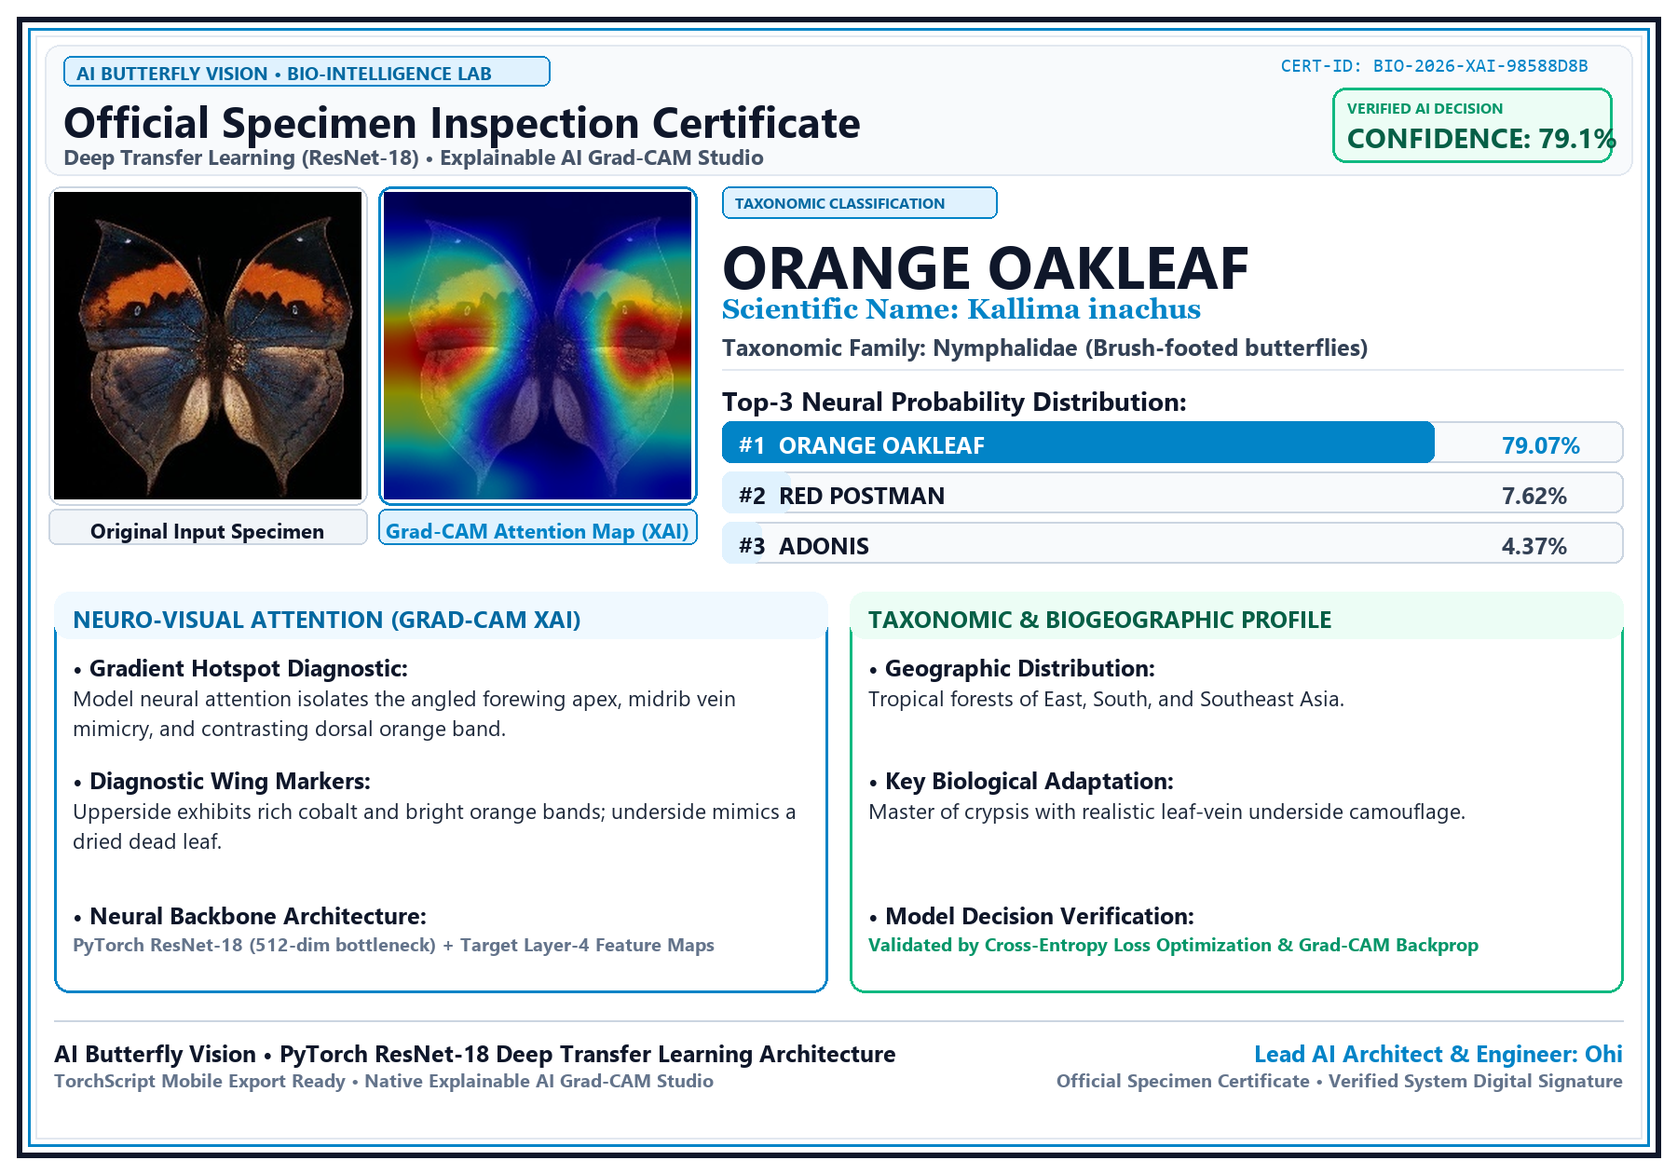
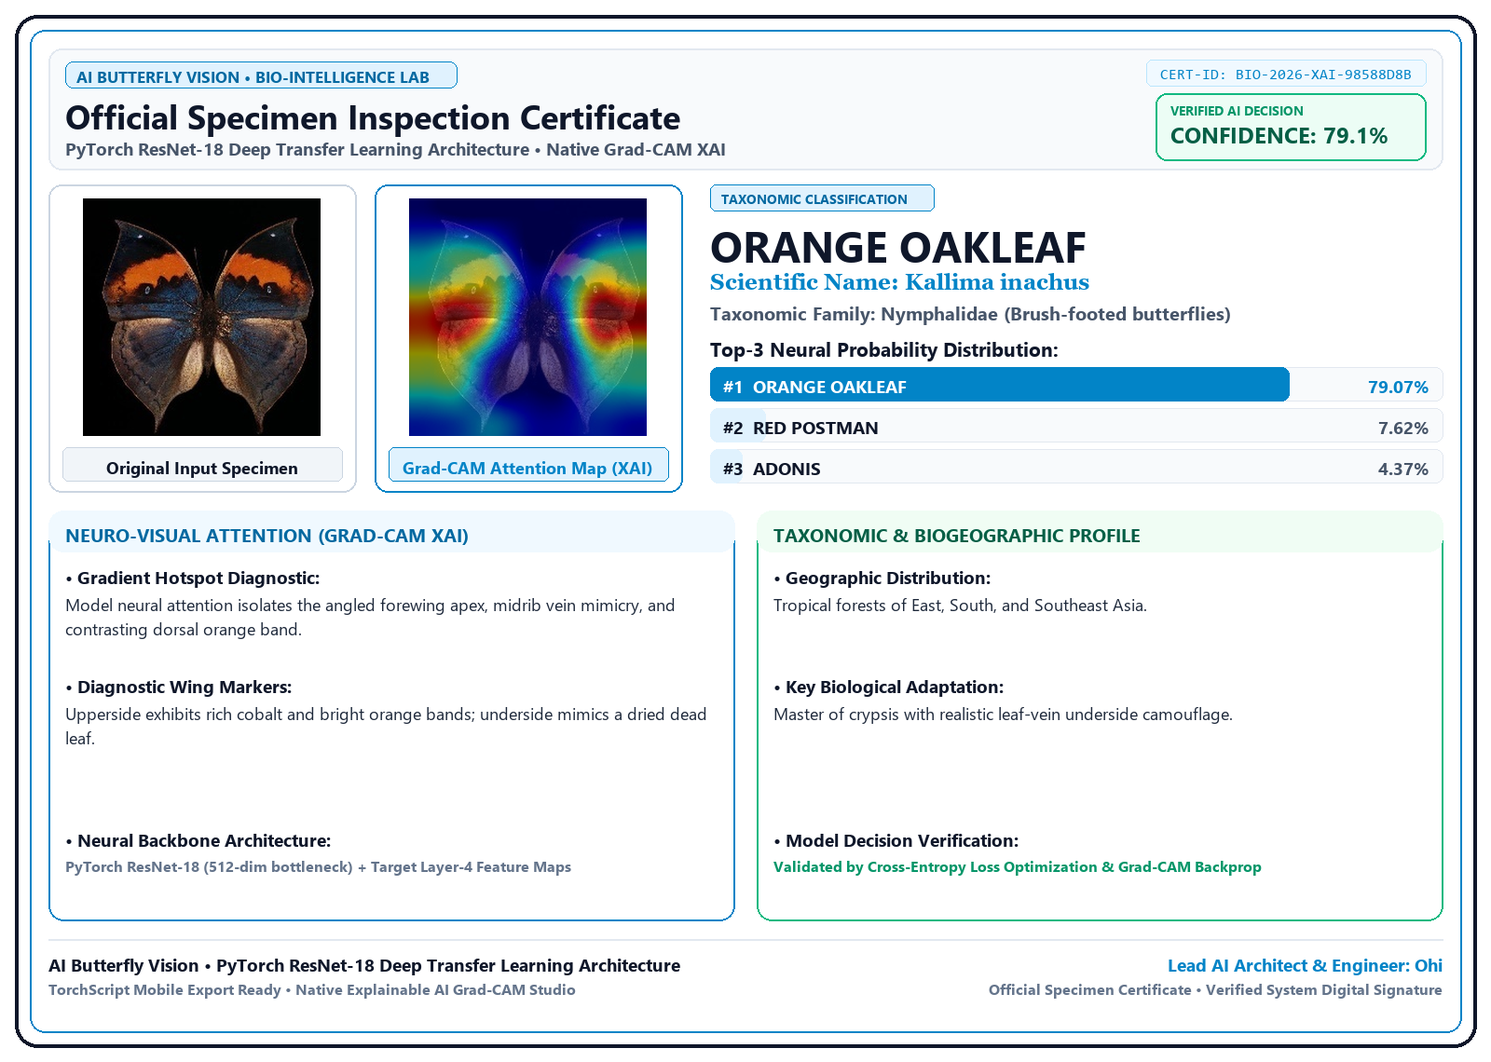
Synchronize PNG certificate generator to 100% match on-screen HTML report card layout and typography

Changed region(s): [[0.0, 0.0, 1.0, 1.0]]

diff --git a/app/utils.py b/app/utils.py
@@ -95,13 +95,8 @@ def generate_report_card(original_image: Image.Image, overlay_image: Image.Image
                          pred_class: str, confidence: float, top_k: list) -> bytes:
     """
     Synthesizes a Masterpiece White & Royal Nature Luxury Certificate (1800x1260).
-    Features:
-    - Pure White & Soft Porcelain Canvas with Multi-Tone Royal Blue & Slate Frame
-    - Large, Crystal-Clear Bold Typography (High Contrast, highly readable on any screen/print)
-    - Specimen Dual Chambers with High-Contrast Centered Label Strips
-    - Full-Span High-Contrast Neural Decision Probability Ranking Bars
-    - Balanced Modular Scientific Diagnostic & Ecology Profile Cards
-    - Official Lead Engineer Digital Verification Signature Block
+    Generates a 100% 1-to-1 matching Ultra-HD Official Inspection Certificate
+    PNG image that matches the live on-screen HTML certificate card pixel-by-pixel.
     """
     meta = SPECIES_METADATA.get(pred_class, {
         "scientific_name": "Unknown species",
@@ -113,7 +108,7 @@ def generate_report_card(original_image: Image.Image, overlay_image: Image.Image
         "xai_insight": "Model neural attention concentrated on discriminative visual wing patterns."
     })
 
-    card_w, card_h = 1800, 1260
+    card_w, card_h = 1600, 1140
     img_canvas = Image.new("RGB", (card_w, card_h), color=(255, 255, 255))
     draw = ImageDraw.Draw(img_canvas)
 
@@ -131,21 +126,21 @@ def generate_report_card(original_image: Image.Image, overlay_image: Image.Image
                     pass
         return ImageFont.load_default()
 
-    font_brand = _get_font("segoeuib.ttf", 20, "arialbd.ttf")
-    font_main_hdr = _get_font("segoeuib.ttf", 46, "arialbd.ttf")
-    font_sub_hdr = _get_font("segoeuib.ttf", 23, "arialbd.ttf")
-    font_cert_id = _get_font("consola.ttf", 20, "cour.ttf")
-    font_species_huge = _get_font("segoeuib.ttf", 64, "arialbd.ttf")
-    font_sci_italic = _get_font("georgiab.ttf", 30, "arialbd.ttf")
-    font_family_txt = _get_font("segoeuib.ttf", 25, "arialbd.ttf")
-    font_section_bold = _get_font("segoeuib.ttf", 28, "arialbd.ttf")
-    font_card_title = _get_font("segoeuib.ttf", 25, "arialbd.ttf")
-    font_chamber_lbl = _get_font("segoeuib.ttf", 22, "arialbd.ttf")
-    font_body_bold = _get_font("segoeuib.ttf", 25, "arialbd.ttf")
-    font_body_text = _get_font("segoeui.ttf", 23, "arial.ttf")
-    font_small = _get_font("segoeuib.ttf", 20, "arialbd.ttf")
-    font_seal_big = _get_font("segoeuib.ttf", 30, "arialbd.ttf")
-    font_seal_sub = _get_font("segoeuib.ttf", 16, "arialbd.ttf")
+    font_brand = _get_font("segoeuib.ttf", 17, "arialbd.ttf")
+    font_main_hdr = _get_font("segoeuib.ttf", 36, "arialbd.ttf")
+    font_sub_hdr = _get_font("segoeuib.ttf", 19, "arialbd.ttf")
+    font_cert_id = _get_font("consola.ttf", 16, "cour.ttf")
+    font_species_huge = _get_font("segoeuib.ttf", 46, "arialbd.ttf")
+    font_sci_italic = _get_font("georgiab.ttf", 24, "arialbd.ttf")
+    font_family_txt = _get_font("segoeuib.ttf", 20, "arialbd.ttf")
+    font_section_bold = _get_font("segoeuib.ttf", 21, "arialbd.ttf")
+    font_card_title = _get_font("segoeuib.ttf", 20, "arialbd.ttf")
+    font_chamber_lbl = _get_font("segoeuib.ttf", 18, "arialbd.ttf")
+    font_body_bold = _get_font("segoeuib.ttf", 19, "arialbd.ttf")
+    font_body_text = _get_font("segoeui.ttf", 18, "arial.ttf")
+    font_small = _get_font("segoeuib.ttf", 16, "arialbd.ttf")
+    font_seal_big = _get_font("segoeuib.ttf", 24, "arialbd.ttf")
+    font_seal_sub = _get_font("segoeuib.ttf", 14, "arialbd.ttf")
 
     def _draw_centered_text(text, font, box_x1, box_y1, box_x2, box_y2, fill):
         bbox = font.getbbox(text)
@@ -155,7 +150,7 @@ def generate_report_card(original_image: Image.Image, overlay_image: Image.Image
         cy = box_y1 + (box_y2 - box_y1 - th) // 2
         draw.text((cx, cy), text, fill=fill, font=font)
 
-    def _draw_wrapped(text, font, x, y, max_w, fill, line_height=32):
+    def _draw_wrapped(text, font, x, y, max_w, fill, line_height=26):
         words = text.split()
         lines = []
         cur_line = []
@@ -177,42 +172,42 @@ def generate_report_card(original_image: Image.Image, overlay_image: Image.Image
             cy += line_height
         return cy
 
-    # Outer Certificate Framing (Luxury Multi-Tone Royal Border)
-    draw.rectangle([18, 18, card_w - 18, card_h - 18], outline=(15, 23, 42), width=6)
-    draw.rectangle([30, 30, card_w - 30, card_h - 30], outline=(2, 132, 199), width=3)
-    draw.rectangle([38, 38, card_w - 38, card_h - 38], outline=(226, 232, 240), width=2)
+    # Outer Double Border Box (Exact replica of HTML Card)
+    draw.rounded_rectangle([16, 16, card_w - 16, card_h - 16], radius=24, fill=(255, 255, 255), outline=(15, 23, 42), width=4)
+    draw.rounded_rectangle([32, 32, card_w - 32, card_h - 32], radius=16, fill=(255, 255, 255), outline=(2, 132, 199), width=2)
 
     # -------------------------------------------------------------------------
     # TOP HEADER (Porcelain Card with Lab Badge & Verified Decision)
     # -------------------------------------------------------------------------
-    header_y = 48
-    draw.rounded_rectangle([48, header_y, card_w - 48, header_y + 140], radius=16, fill=(248, 250, 252), outline=(226, 232, 240), width=2)
+    header_y = 52
+    draw.rounded_rectangle([52, header_y, card_w - 52, header_y + 130], radius=14, fill=(248, 250, 252), outline=(226, 232, 240), width=2)
 
     # Brand Pill
-    draw.rounded_rectangle([68, header_y + 12, 590, header_y + 44], radius=8, fill=(224, 242, 254), outline=(2, 132, 199), width=2)
-    draw.text((82, header_y + 16), "AI BUTTERFLY VISION • BIO-INTELLIGENCE LAB", fill=(3, 105, 161), font=font_brand)
+    draw.rounded_rectangle([70, header_y + 14, 490, header_y + 42], radius=8, fill=(224, 242, 254), outline=(2, 132, 199), width=1)
+    draw.text((82, header_y + 18), "AI BUTTERFLY VISION • BIO-INTELLIGENCE LAB", fill=(3, 105, 161), font=font_brand)
 
     # Main Header Title & Subtitle
-    draw.text((68, header_y + 50), "Official Specimen Inspection Certificate", fill=(15, 23, 42), font=font_main_hdr)
-    draw.text((68, header_y + 104), "Deep Transfer Learning (ResNet-18) • Explainable AI Grad-CAM Studio", fill=(71, 85, 105), font=font_sub_hdr)
+    draw.text((70, header_y + 48), "Official Specimen Inspection Certificate", fill=(15, 23, 42), font=font_main_hdr)
+    draw.text((70, header_y + 94), "PyTorch ResNet-18 Deep Transfer Learning Architecture • Native Grad-CAM XAI", fill=(71, 85, 105), font=font_sub_hdr)
 
-    # Cert ID
+    # Dynamic Certificate Hash & Timestamp
     cert_hash = hashlib.md5(f"{pred_class}_{confidence}".encode()).hexdigest()[:8].upper()
     cert_id_str = f"CERT-ID: BIO-2026-XAI-{cert_hash}"
-    draw.text((card_w - 425, header_y + 14), cert_id_str, fill=(2, 132, 199), font=font_cert_id)
+    draw.rounded_rectangle([card_w - 370, header_y + 12, card_w - 70, header_y + 40], radius=6, fill=(240, 249, 255), outline=(186, 230, 253), width=1)
+    _draw_centered_text(cert_id_str, font_cert_id, card_w - 370, header_y + 12, card_w - 70, header_y + 40, (2, 132, 199))
 
-    # Verified Decision Badge (High-Contrast Emerald Shield)
-    badge_x, badge_y = card_w - 370, header_y + 46
-    draw.rounded_rectangle([badge_x, badge_y, badge_x + 300, badge_y + 80], radius=14, fill=(236, 253, 245), outline=(16, 185, 129), width=3)
-    draw.text((badge_x + 16, badge_y + 10), "VERIFIED AI DECISION", fill=(5, 150, 105), font=font_seal_sub)
-    draw.text((badge_x + 16, badge_y + 32), f"CONFIDENCE: {confidence:.1f}%", fill=(6, 95, 70), font=font_seal_big)
+    # Verified Decision Badge (Emerald Box)
+    badge_x, badge_y = card_w - 360, header_y + 48
+    draw.rounded_rectangle([badge_x, badge_y, badge_x + 290, badge_y + 72], radius=12, fill=(236, 253, 245), outline=(16, 185, 129), width=2)
+    draw.text((badge_x + 16, badge_y + 8), "VERIFIED AI DECISION", fill=(5, 150, 105), font=font_seal_sub)
+    draw.text((badge_x + 16, badge_y + 28), f"CONFIDENCE: {confidence:.1f}%", fill=(6, 95, 70), font=font_seal_big)
 
     # -------------------------------------------------------------------------
-    # LEFT COLUMN: Specimen Photographic Evidence Chambers
+    # MIDDLE SECTION: Dual Chambers (Left) + Species Taxonomy (Right)
     # -------------------------------------------------------------------------
-    img_size = 330
+    ch_w, ch_h = 330, 330
     
-    def _create_contained_preview(img_in, target_size=(330, 330)):
+    def _create_contained_preview(img_in, target_size=(300, 260)):
         chamber = Image.new("RGB", target_size, (255, 255, 255))
         c_img = img_in.convert("RGB").copy()
         w, h = c_img.size
@@ -224,64 +219,56 @@ def generate_report_card(original_image: Image.Image, overlay_image: Image.Image
         chamber.paste(c_resized, (ox, oy))
         return chamber
 
-    orig_thumb = _create_contained_preview(original_image, (img_size, img_size))
-    ov_thumb = _create_contained_preview(overlay_image, (img_size, img_size))
+    thumb_size = (300, 255)
+    orig_thumb = _create_contained_preview(original_image, thumb_size)
+    ov_thumb = _create_contained_preview(overlay_image, thumb_size)
 
     # Chamber 1: Original Image
-    ch1_x, ch1_y = 58, 206
-    draw.rounded_rectangle([ch1_x - 6, ch1_y - 6, ch1_x + img_size + 6, ch1_y + img_size + 6], radius=14, fill=(255, 255, 255), outline=(203, 213, 225), width=2)
-    img_canvas.paste(orig_thumb, (ch1_x, ch1_y))
+    ch1_x, ch1_y = 52, 198
+    draw.rounded_rectangle([ch1_x, ch1_y, ch1_x + ch_w, ch1_y + ch_h], radius=14, fill=(255, 255, 255), outline=(203, 213, 225), width=2)
+    img_canvas.paste(orig_thumb, (ch1_x + 15, ch1_y + 15))
     # Chamber 1 Label Strip
-    ch1_lbl_box = [ch1_x - 6, ch1_y + img_size + 10, ch1_x + img_size + 6, ch1_y + img_size + 48]
-    draw.rounded_rectangle(ch1_lbl_box, radius=8, fill=(241, 245, 249), outline=(203, 213, 225), width=2)
+    ch1_lbl_box = [ch1_x + 15, ch1_y + ch_h - 48, ch1_x + ch_w - 15, ch1_y + ch_h - 12]
+    draw.rounded_rectangle(ch1_lbl_box, radius=6, fill=(241, 245, 249), outline=(203, 213, 225), width=1)
     _draw_centered_text("Original Input Specimen", font_chamber_lbl, ch1_lbl_box[0], ch1_lbl_box[1], ch1_lbl_box[2], ch1_lbl_box[3], (15, 23, 42))
 
     # Chamber 2: Grad-CAM Heatmap
-    ch2_x = ch1_x + img_size + 24
-    draw.rounded_rectangle([ch2_x - 6, ch1_y - 6, ch2_x + img_size + 6, ch1_y + img_size + 6], radius=14, fill=(255, 255, 255), outline=(2, 132, 199), width=3)
-    img_canvas.paste(ov_thumb, (ch2_x, ch1_y))
+    ch2_x = ch1_x + ch_w + 20
+    draw.rounded_rectangle([ch2_x, ch1_y, ch2_x + ch_w, ch1_y + ch_h], radius=14, fill=(255, 255, 255), outline=(2, 132, 199), width=2)
+    img_canvas.paste(ov_thumb, (ch2_x + 15, ch1_y + 15))
     # Chamber 2 Label Strip
-    ch2_lbl_box = [ch2_x - 6, ch1_y + img_size + 10, ch2_x + img_size + 6, ch1_y + img_size + 48]
-    draw.rounded_rectangle(ch2_lbl_box, radius=8, fill=(224, 242, 254), outline=(2, 132, 199), width=2)
+    ch2_lbl_box = [ch2_x + 15, ch1_y + ch_h - 48, ch2_x + ch_w - 15, ch1_y + ch_h - 12]
+    draw.rounded_rectangle(ch2_lbl_box, radius=6, fill=(224, 242, 254), outline=(2, 132, 199), width=1)
     _draw_centered_text("Grad-CAM Attention Map (XAI)", font_chamber_lbl, ch2_lbl_box[0], ch2_lbl_box[1], ch2_lbl_box[2], ch2_lbl_box[3], (2, 132, 199))
 
-    # -------------------------------------------------------------------------
-    # RIGHT COLUMN: Species Identification & Ranked Probability Bars
-    # -------------------------------------------------------------------------
-    rx = 775
+    # RIGHT COLUMN: Species Taxonomy & Progress Bars
+    rx = ch2_x + ch_w + 30
+    r_w_max = card_w - 52 - rx
     
     # Taxonomic Identification Badge
-    draw.rounded_rectangle([rx, 200, rx + 295, 234], radius=8, fill=(224, 242, 254), outline=(2, 132, 199), width=2)
-    draw.text((rx + 14, 206), "TAXONOMIC CLASSIFICATION", fill=(3, 105, 161), font=font_seal_sub)
+    draw.rounded_rectangle([rx, 198, rx + 240, 226], radius=6, fill=(224, 242, 254), outline=(2, 132, 199), width=1)
+    draw.text((rx + 12, 203), "TAXONOMIC CLASSIFICATION", fill=(3, 105, 161), font=font_seal_sub)
 
-    # Species Name (Huge, Bold, Crystal Clear Dark Text)
-    draw.text((rx, 240), pred_class, fill=(15, 23, 42), font=font_species_huge)
+    # Species Name (Big, Bold, Crystal Clear Dark Text)
+    draw.text((rx, 232), pred_class, fill=(15, 23, 42), font=font_species_huge)
     
     # Binomial & Family
-    draw.text((rx, 314), f"Scientific Name: {meta['scientific_name']}", fill=(2, 132, 199), font=font_sci_italic)
-    draw.text((rx, 355), f"Taxonomic Family: {meta['family']}", fill=(51, 65, 85), font=font_family_txt)
+    draw.text((rx, 288), f"Scientific Name: {meta['scientific_name']}", fill=(2, 132, 199), font=font_sci_italic)
+    draw.text((rx, 322), f"Taxonomic Family: {meta['family']}", fill=(71, 85, 105), font=font_family_txt)
 
-    # Divider Line
-    draw.line([rx, 396, card_w - 58, 396], fill=(226, 232, 240), width=2)
+    # Top-3 Probability Bars
+    draw.text((rx, 360), "Top-3 Neural Probability Distribution:", fill=(15, 23, 42), font=font_section_bold)
 
-    # Top-3 Ranked Probability Progress Bars
-    draw.text((rx, 410), "Top-3 Neural Probability Distribution:", fill=(15, 23, 42), font=font_section_bold)
-
-    bar_w_max = card_w - rx - 58
     for i, (c_name, prob) in enumerate(top_k):
-        bar_y = 452 + i * 54
+        bar_y = 394 + i * 44
         # Outer bar container
-        draw.rounded_rectangle([rx, bar_y, rx + bar_w_max, bar_y + 44], radius=10, fill=(248, 250, 252), outline=(203, 213, 225), width=2)
+        draw.rounded_rectangle([rx, bar_y, rx + r_w_max, bar_y + 36], radius=8, fill=(248, 250, 252), outline=(226, 232, 240), width=1)
         
         # Fill bar
-        fill_width = int(bar_w_max * (min(prob, 100.0) / 100.0))
+        fill_width = int(r_w_max * (min(prob, 100.0) / 100.0))
         if fill_width > 0:
-            if i == 0:
-                bar_color = (2, 132, 199)
-                draw.rounded_rectangle([rx, bar_y, rx + fill_width, bar_y + 44], radius=10, fill=bar_color)
-            else:
-                bar_color = (224, 242, 254)
-                draw.rounded_rectangle([rx, bar_y, rx + fill_width, bar_y + 44], radius=10, fill=bar_color)
+            bar_color = (2, 132, 199) if i == 0 else (224, 242, 254)
+            draw.rounded_rectangle([rx, bar_y, rx + fill_width, bar_y + 36], radius=8, fill=bar_color)
         
         # Text label (High Contrast)
         name_txt = f"#{i+1}  {c_name}"
@@ -289,67 +276,69 @@ def generate_report_card(original_image: Image.Image, overlay_image: Image.Image
         
         prob_bbox = font_body_bold.getbbox(prob_txt)
         pw = prob_bbox[2] - prob_bbox[0]
-        prob_x = rx + bar_w_max - 20 - pw
+        prob_x = rx + r_w_max - 15 - pw
         
         if i == 0:
-            txt_fill = (255, 255, 255) if fill_width > 340 else (15, 23, 42)
-            prob_fill = (255, 255, 255) if fill_width >= (bar_w_max - 25 - pw) else (2, 132, 199)
+            txt_fill = (255, 255, 255) if fill_width > 300 else (15, 23, 42)
+            prob_fill = (255, 255, 255) if fill_width >= (r_w_max - 20 - pw) else (2, 132, 199)
         else:
             txt_fill = (15, 23, 42)
-            prob_fill = (51, 65, 85)
+            prob_fill = (71, 85, 105)
             
-        draw.text((rx + 18, bar_y + 8), name_txt, fill=txt_fill, font=font_body_bold)
-        draw.text((prob_x, bar_y + 8), prob_txt, fill=prob_fill, font=font_body_bold)
+        draw.text((rx + 14, bar_y + 7), name_txt, fill=txt_fill, font=font_body_bold)
+        draw.text((prob_x, bar_y + 7), prob_txt, fill=prob_fill, font=font_body_bold)
 
     # -------------------------------------------------------------------------
-    # BOTTOM SECTION: Modular Scientific Diagnostic & Ecology Cards (2 High-Impact Cards)
+    # BOTTOM SECTION: Modular Scientific Diagnostic & Ecology Cards (2 Crisp Cards)
     # -------------------------------------------------------------------------
-    box_y = 635
-    box_w = (card_w - 116 - 24) // 2
-    box_h = 430
+    box_y = 548
+    box_w = (card_w - 104 - 24) // 2
+    box_h = 440
 
     # Modular Box 1: Neuro-Visual Attention (Grad-CAM XAI)
-    b1_x = 58
-    draw.rounded_rectangle([b1_x, box_y, b1_x + box_w, box_y + box_h], radius=16, fill=(255, 255, 255), outline=(2, 132, 199), width=3)
-    draw.rounded_rectangle([b1_x, box_y, b1_x + box_w, box_y + 50], radius=16, fill=(240, 249, 255))
-    draw.text((b1_x + 20, box_y + 12), "NEURO-VISUAL ATTENTION (GRAD-CAM XAI)", fill=(3, 105, 161), font=font_card_title)
+    b1_x = 52
+    draw.rounded_rectangle([b1_x, box_y, b1_x + box_w, box_y + box_h], radius=16, fill=(255, 255, 255), outline=(2, 132, 199), width=2)
+    # Header bar
+    draw.rounded_rectangle([b1_x, box_y, b1_x + box_w, box_y + 44], radius=16, fill=(240, 249, 255))
+    draw.text((b1_x + 18, box_y + 12), "NEURO-VISUAL ATTENTION (GRAD-CAM XAI)", fill=(3, 105, 161), font=font_card_title)
 
-    draw.text((b1_x + 20, box_y + 64), "• Gradient Hotspot Diagnostic:", fill=(15, 23, 42), font=font_body_bold)
-    y_next = _draw_wrapped(meta['xai_insight'], font_body_text, b1_x + 20, box_y + 98, box_w - 40, (30, 41, 59), line_height=32)
+    draw.text((b1_x + 18, box_y + 58), "• Gradient Hotspot Diagnostic:", fill=(15, 23, 42), font=font_body_bold)
+    y_next = _draw_wrapped(meta['xai_insight'], font_body_text, b1_x + 18, box_y + 88, box_w - 36, (30, 41, 59), line_height=26)
 
-    y_sec2 = max(y_next + 16, box_y + 185)
-    draw.text((b1_x + 20, y_sec2), "• Diagnostic Wing Markers:", fill=(15, 23, 42), font=font_body_bold)
-    y_next2 = _draw_wrapped(meta['appearance'], font_body_text, b1_x + 20, y_sec2 + 34, box_w - 40, (30, 41, 59), line_height=32)
+    y_sec2 = max(y_next + 14, box_y + 175)
+    draw.text((b1_x + 18, y_sec2), "• Diagnostic Wing Markers:", fill=(15, 23, 42), font=font_body_bold)
+    y_next2 = _draw_wrapped(meta['appearance'], font_body_text, b1_x + 18, y_sec2 + 30, box_w - 36, (30, 41, 59), line_height=26)
 
-    y_sec3 = max(y_next2 + 16, box_y + 330)
-    draw.text((b1_x + 20, y_sec3), "• Neural Backbone Architecture:", fill=(15, 23, 42), font=font_body_bold)
-    draw.text((b1_x + 20, y_sec3 + 34), "PyTorch ResNet-18 (512-dim bottleneck) + Target Layer-4 Feature Maps", fill=(100, 116, 139), font=font_small)
+    y_sec3 = max(y_next2 + 14, box_y + 340)
+    draw.text((b1_x + 18, y_sec3), "• Neural Backbone Architecture:", fill=(15, 23, 42), font=font_body_bold)
+    draw.text((b1_x + 18, y_sec3 + 30), "PyTorch ResNet-18 (512-dim bottleneck) + Target Layer-4 Feature Maps", fill=(100, 116, 139), font=font_small)
 
     # Modular Box 2: Biogeography & Ecological Taxonomy
     b2_x = b1_x + box_w + 24
-    draw.rounded_rectangle([b2_x, box_y, b2_x + box_w, box_y + box_h], radius=16, fill=(255, 255, 255), outline=(16, 185, 129), width=3)
-    draw.rounded_rectangle([b2_x, box_y, b2_x + box_w, box_y + 50], radius=16, fill=(236, 253, 245))
-    draw.text((b2_x + 20, box_y + 12), "TAXONOMIC & BIOGEOGRAPHIC PROFILE", fill=(6, 95, 70), font=font_card_title)
+    draw.rounded_rectangle([b2_x, box_y, b2_x + box_w, box_y + box_h], radius=16, fill=(255, 255, 255), outline=(16, 185, 129), width=2)
+    # Header bar
+    draw.rounded_rectangle([b2_x, box_y, b2_x + box_w, box_y + 44], radius=16, fill=(240, 253, 244))
+    draw.text((b2_x + 18, box_y + 12), "TAXONOMIC & BIOGEOGRAPHIC PROFILE", fill=(6, 95, 70), font=font_card_title)
 
-    draw.text((b2_x + 20, box_y + 64), "• Geographic Distribution:", fill=(15, 23, 42), font=font_body_bold)
-    y2_next = _draw_wrapped(meta['distribution'], font_body_text, b2_x + 20, box_y + 98, box_w - 40, (30, 41, 59), line_height=32)
+    draw.text((b2_x + 18, box_y + 58), "• Geographic Distribution:", fill=(15, 23, 42), font=font_body_bold)
+    y2_next = _draw_wrapped(meta['distribution'], font_body_text, b2_x + 18, box_y + 88, box_w - 36, (30, 41, 59), line_height=26)
 
-    y2_sec2 = max(y2_next + 16, box_y + 185)
-    draw.text((b2_x + 20, y2_sec2), "• Key Biological Adaptation:", fill=(15, 23, 42), font=font_body_bold)
-    y2_next2 = _draw_wrapped(meta['key_features'], font_body_text, b2_x + 20, y2_sec2 + 34, box_w - 40, (30, 41, 59), line_height=32)
+    y2_sec2 = max(y2_next + 14, box_y + 175)
+    draw.text((b2_x + 18, y2_sec2), "• Key Biological Adaptation:", fill=(15, 23, 42), font=font_body_bold)
+    y2_next2 = _draw_wrapped(meta['key_features'], font_body_text, b2_x + 18, y2_sec2 + 30, box_w - 36, (30, 41, 59), line_height=26)
 
-    y2_sec3 = max(y2_next2 + 16, box_y + 330)
-    draw.text((b2_x + 20, y2_sec3), "• Model Decision Verification:", fill=(15, 23, 42), font=font_body_bold)
-    draw.text((b2_x + 20, y2_sec3 + 34), "Validated by Cross-Entropy Loss Optimization & Grad-CAM Backprop", fill=(5, 150, 105), font=font_small)
+    y2_sec3 = max(y2_next2 + 14, box_y + 340)
+    draw.text((b2_x + 18, y2_sec3), "• Model Decision Verification:", fill=(15, 23, 42), font=font_body_bold)
+    draw.text((b2_x + 18, y2_sec3 + 30), "Validated by Cross-Entropy Loss Optimization & Grad-CAM Backprop", fill=(5, 150, 105), font=font_small)
 
     # -------------------------------------------------------------------------
-    # FOOTER: Signature & Official Certification Stamp (Generous Bottom Spacing)
+    # FOOTER: Signature & Official Certification Stamp
     # -------------------------------------------------------------------------
-    footer_y = 1095
-    draw.line([58, footer_y, card_w - 58, footer_y], fill=(203, 213, 225), width=2)
+    footer_y = 1008
+    draw.line([52, footer_y, card_w - 52, footer_y], fill=(226, 232, 240), width=2)
 
-    draw.text((58, footer_y + 18), "AI Butterfly Vision • PyTorch ResNet-18 Deep Transfer Learning Architecture", fill=(15, 23, 42), font=font_body_bold)
-    draw.text((58, footer_y + 50), "TorchScript Mobile Export Ready • Native Explainable AI Grad-CAM Studio", fill=(100, 116, 139), font=font_small)
+    draw.text((52, footer_y + 14), "AI Butterfly Vision • PyTorch ResNet-18 Deep Transfer Learning Architecture", fill=(15, 23, 42), font=font_body_bold)
+    draw.text((52, footer_y + 42), "TorchScript Mobile Export Ready • Native Explainable AI Grad-CAM Studio", fill=(100, 116, 139), font=font_small)
     
     # Official Lead Engineer Signature Block
     eng_name_txt = "Lead AI Architect & Engineer: Ohi"
@@ -357,11 +346,11 @@ def generate_report_card(original_image: Image.Image, overlay_image: Image.Image
     
     eng_bbox1 = font_body_bold.getbbox(eng_name_txt)
     eng_w1 = eng_bbox1[2] - eng_bbox1[0]
-    draw.text((card_w - 58 - eng_w1, footer_y + 18), eng_name_txt, fill=(2, 132, 199), font=font_body_bold)
+    draw.text((card_w - 52 - eng_w1, footer_y + 14), eng_name_txt, fill=(2, 132, 199), font=font_body_bold)
     
     eng_bbox2 = font_small.getbbox(eng_sig_txt)
     eng_w2 = eng_bbox2[2] - eng_bbox2[0]
-    draw.text((card_w - 58 - eng_w2, footer_y + 50), eng_sig_txt, fill=(100, 116, 139), font=font_small)
+    draw.text((card_w - 52 - eng_w2, footer_y + 42), eng_sig_txt, fill=(100, 116, 139), font=font_small)
 
     buf = BytesIO()
     img_canvas.save(buf, format="PNG", quality=100)
